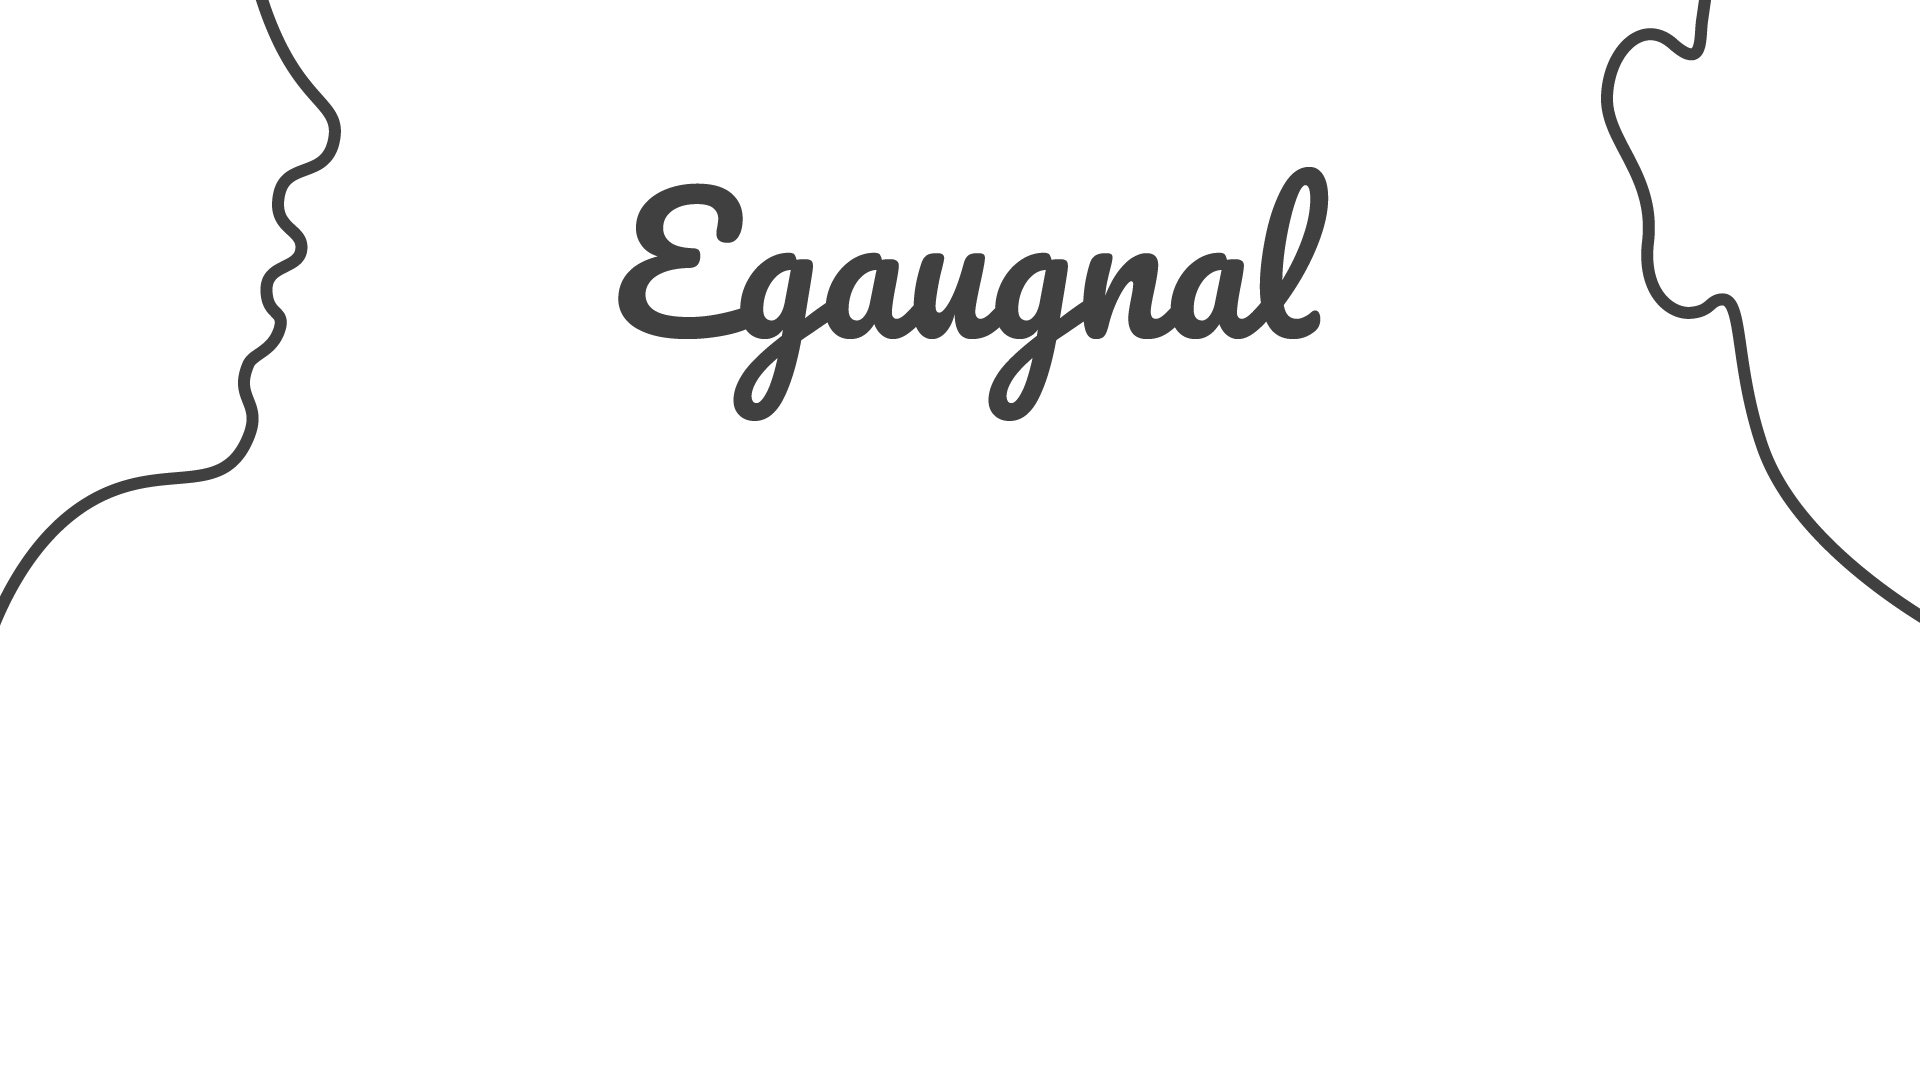
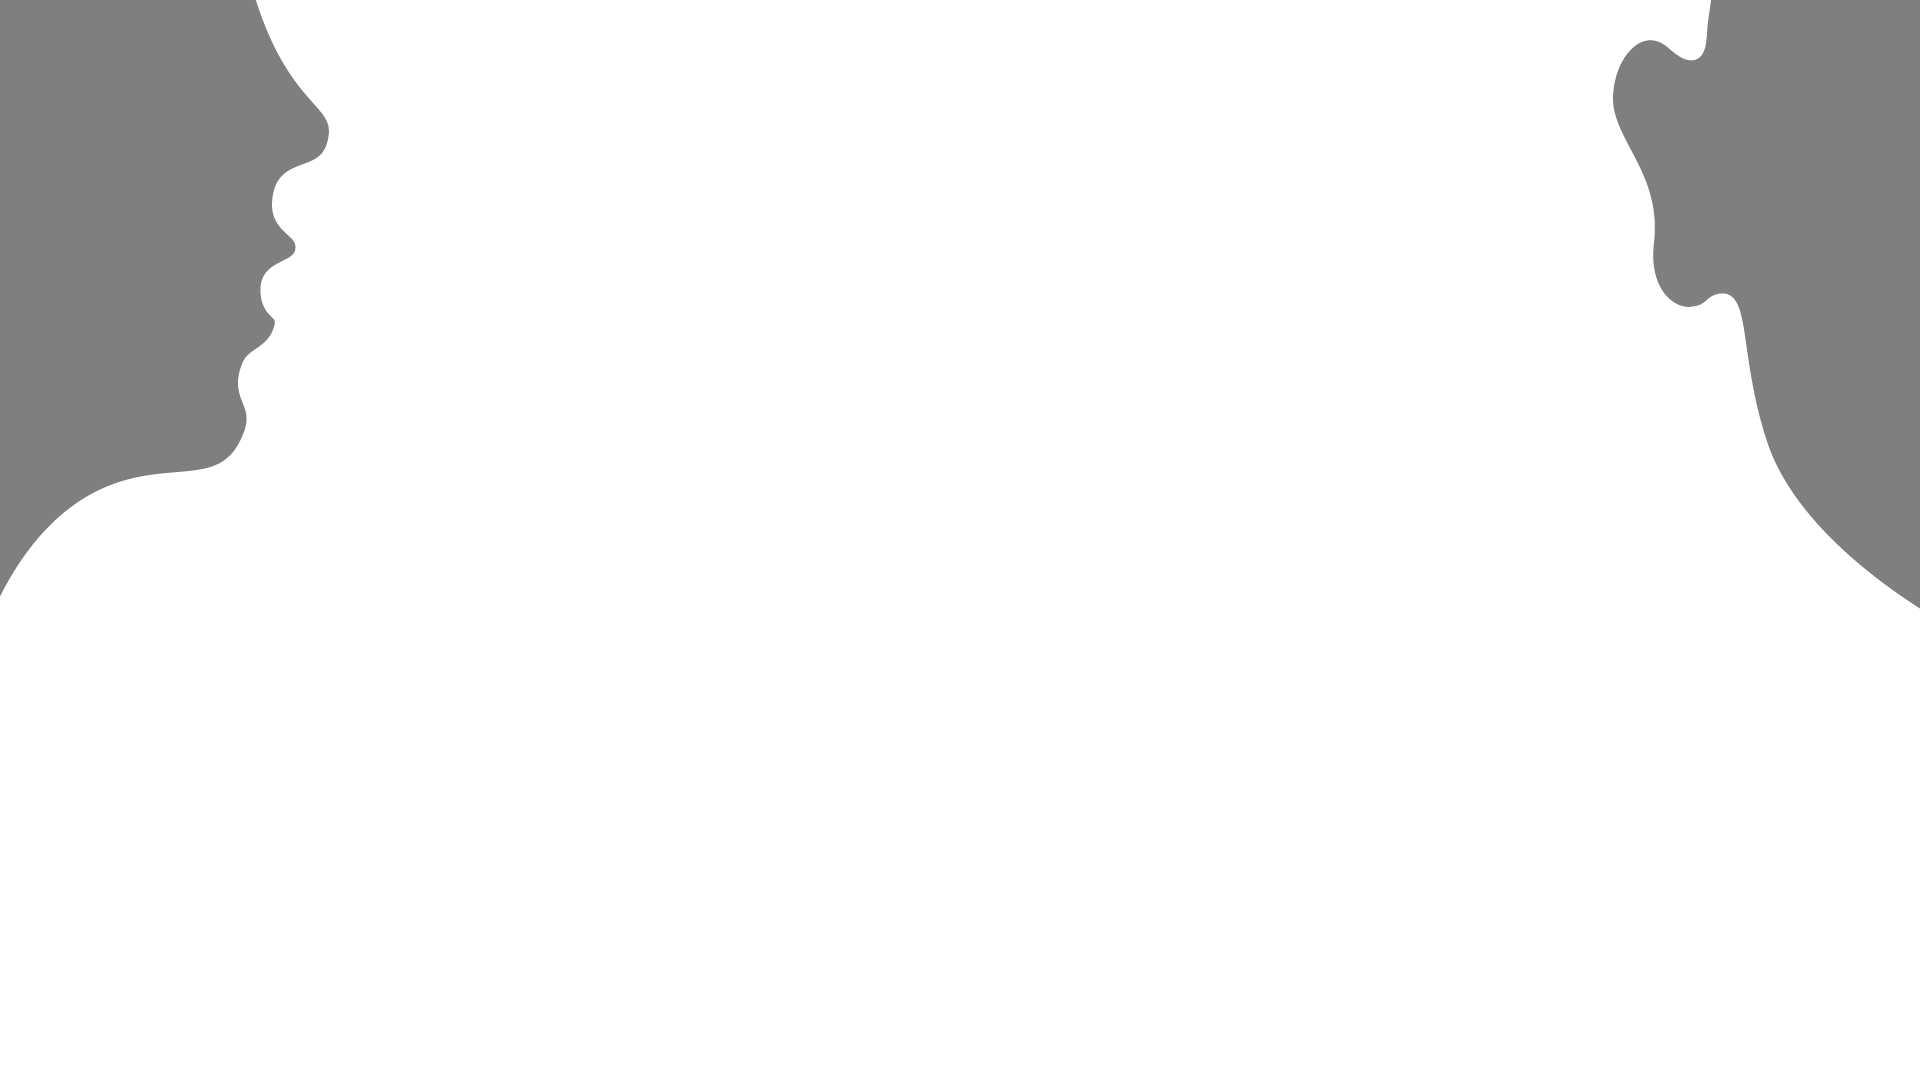
homepage pretty much done working on main page after login

Changed region(s): [[0.0, 0.0, 0.1875, 0.5806], [0.8125, 0.0, 1.0, 0.5806], [0.3125, 0.1528, 0.7188, 0.3972]]

diff --git a/public/css/style.css b/public/css/style.css
@@ -1,17 +1,39 @@
-:root {
+/* :root {
    display: flex;
    min-height: 100%;
    align-items: center;
    justify-content: space-around;
-}
+} */
 
 h1 {
    text-align: center; 
-   font-family: 'Pacifico';font-size: 22px;
+   font-family: 'Pacifico';
+   font-size: 10vw;
+   max-width: 100%; 
+   color: rgb(36, 21, 11);
+   text-shadow:
+       1px 1px 0 white,
+     -1px -1px 0 white,  
+      1px -1px 0 white,
+      -1px 1px 0 white,
+       1px 1px 0 white;
+}
+
+h2 {
+   text-align: center;
    font-size: 20px;
    max-width: 100%; 
    color: white;
 }
+
+h3 {
+   text-align: center; 
+   font-family: 'Pacifico';
+   font-size: 20px;
+   max-width: 100%; 
+   color: white;
+}
+
 body {
    height: 100%;
    min-height: 100%;
@@ -21,13 +43,13 @@ body {
    background-position-x: center;
    background-position-y: top;
    background-repeat: no-repeat, no-repeat;
-   background-size: contain, cover;
+   background-size: 100vw, cover;
    align-items: center;
    justify-content: center;
 }
 
 .login-glass {
-   background: rgba(28, 28, 28, 0.2);
+   background: rgba(28, 28, 28, 0.5);
    border-radius: 16px;
    box-shadow: 0 4px 30px rgba(0, 0, 0, 0.1);
    backdrop-filter: blur(6px);
@@ -41,17 +63,41 @@ input {
    background-color: #1d21241c;
    border-radius: 25px;
    text-align: center;
+   -webkit-text-fill-color: rgba(255, 255, 255, 0.85);
+   line-height: 2rem;
 }
 
 .btn-light {
-   border-radius: 25px;
-   border: 2px solid rgb(255, 255, 255);}
-
-.btn-light:hover {
    color: white;
    background-color: #1d21241c;
+   border: 2px solid rgb(255, 255, 255);
+   border-radius: 25px;
+}
+
+.login-btn-l {
+   border-radius: 25px 0px 0px 25px;
+   border-right: 1px solid rgb(255, 255, 255);
+}
+
+.login-btn-r {
+   border-radius: 0px 25px 25px 0px;
+   border-left: 1px solid rgb(255, 255, 255);
+}
+
+.btn-light:hover {
+   color: #1d2124b2;
+   background-color: white;
    border: 2px solid rgb(255, 255, 255);
 }
 .card-box {
    min-width: 300px;
 }
+
+@media screen and (max-width: 650px) {
+   body {
+      background-size: 100vw, 66vh;
+   }
+   h2 {
+      font-size: 14pt;
+   }
+ }
